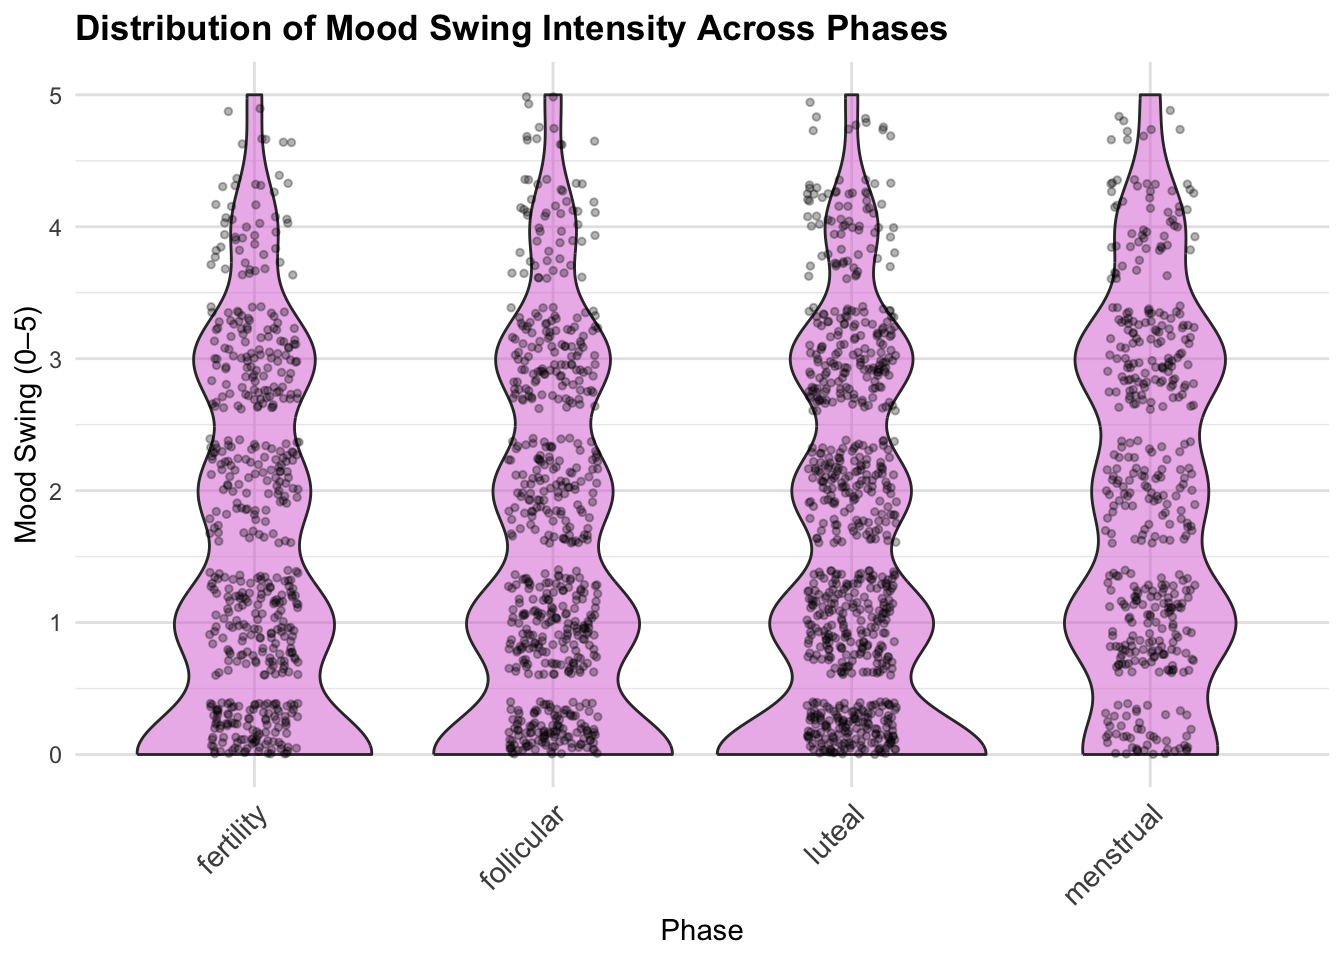
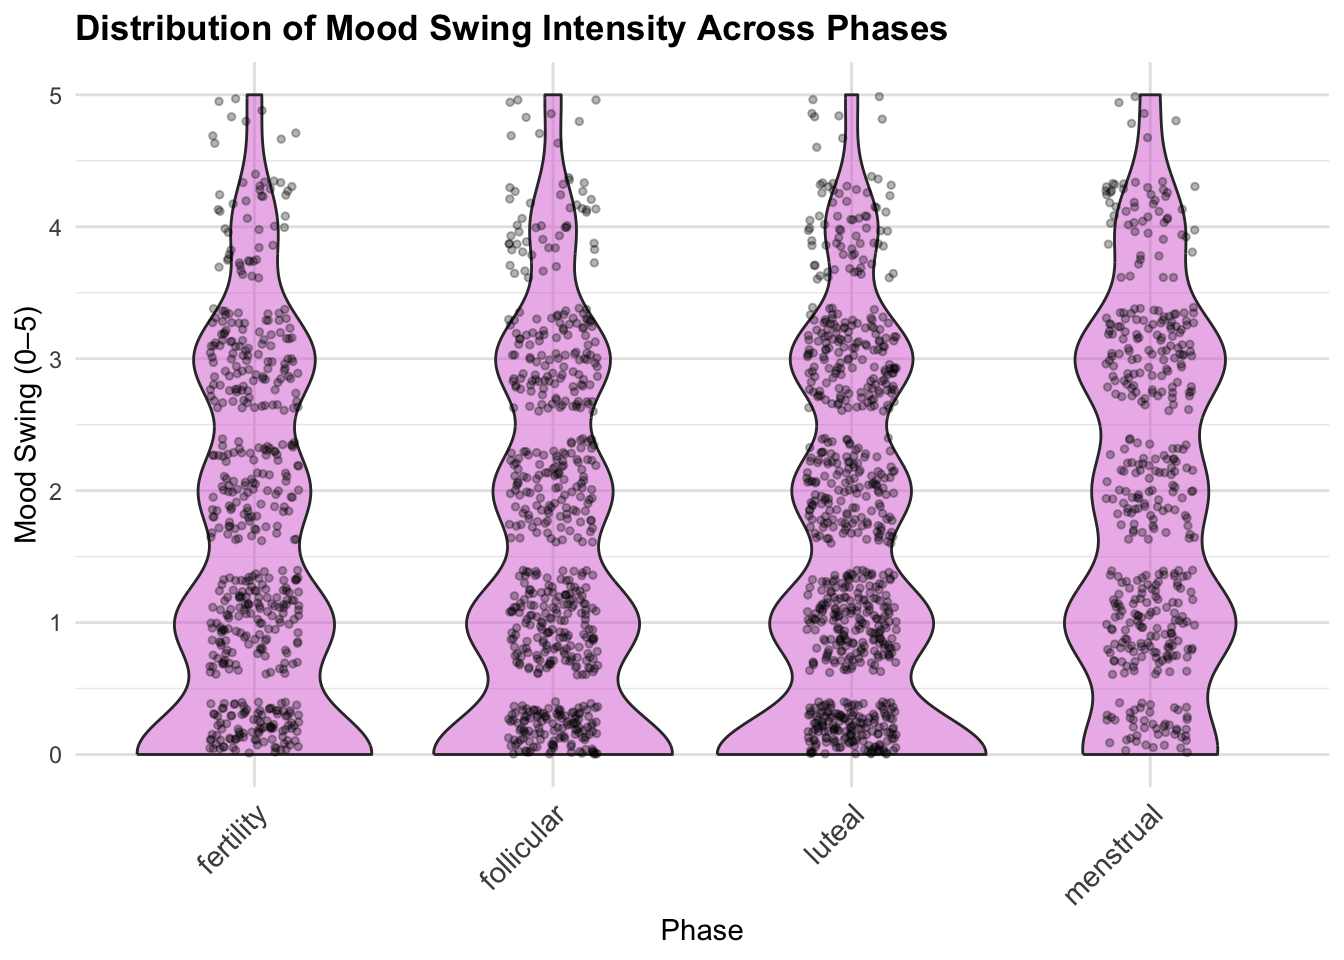
minor cleanning of data section

diff --git a/report.html b/report.html
@@ -519,9 +519,10 @@ stress score, daily exercise data.</li>
 Besides <code>subejct_info</code>, other dataframes can be further
 linked by <code>day_in_study</code> and <code>study_interval</code>.</p>
 <hr />
-</div>
-<div id="dataframes" class="section level2">
-<h2>Dataframes</h2>
+<details>
+<summary>
+Dataframes
+<p>
 <div id="subject_info---subject-relevant-data" class="section level3">
 <h3><code>subject_info</code> - Subject-Relevant Data</h3>
 <p>The <code>subject_info</code> dataframe contains participants
@@ -916,6 +917,8 @@ session or if both stress and sleep scores are present.</p>
   )  
   # MERGE demographic data
   # left_join(subject_info, by = c(&quot;id&quot;, &quot;study_interval&quot;)) </code></pre>
+</p>
+</details>
 </div>
 </div>
 </div>
@@ -943,7 +946,7 @@ peaking sharply in Fertility and remaining low in the other phases.</p>
 <h3>Mood Swing Distribution Across Phases</h3>
 <p>Topic: Assess whether menstrual cycle phases influence mood swing
 intensity using violin plots.</p>
-<pre><code>## Warning: Removed 468 rows containing missing values or values outside the scale range
+<pre><code>## Warning: Removed 476 rows containing missing values or values outside the scale range
 ## (`geom_point()`).</code></pre>
 <p><img src="report_files/figure-html/unnamed-chunk-8-1.png" width="672" />
 Violin plots show substantial inter-individual variability. Menstrual
